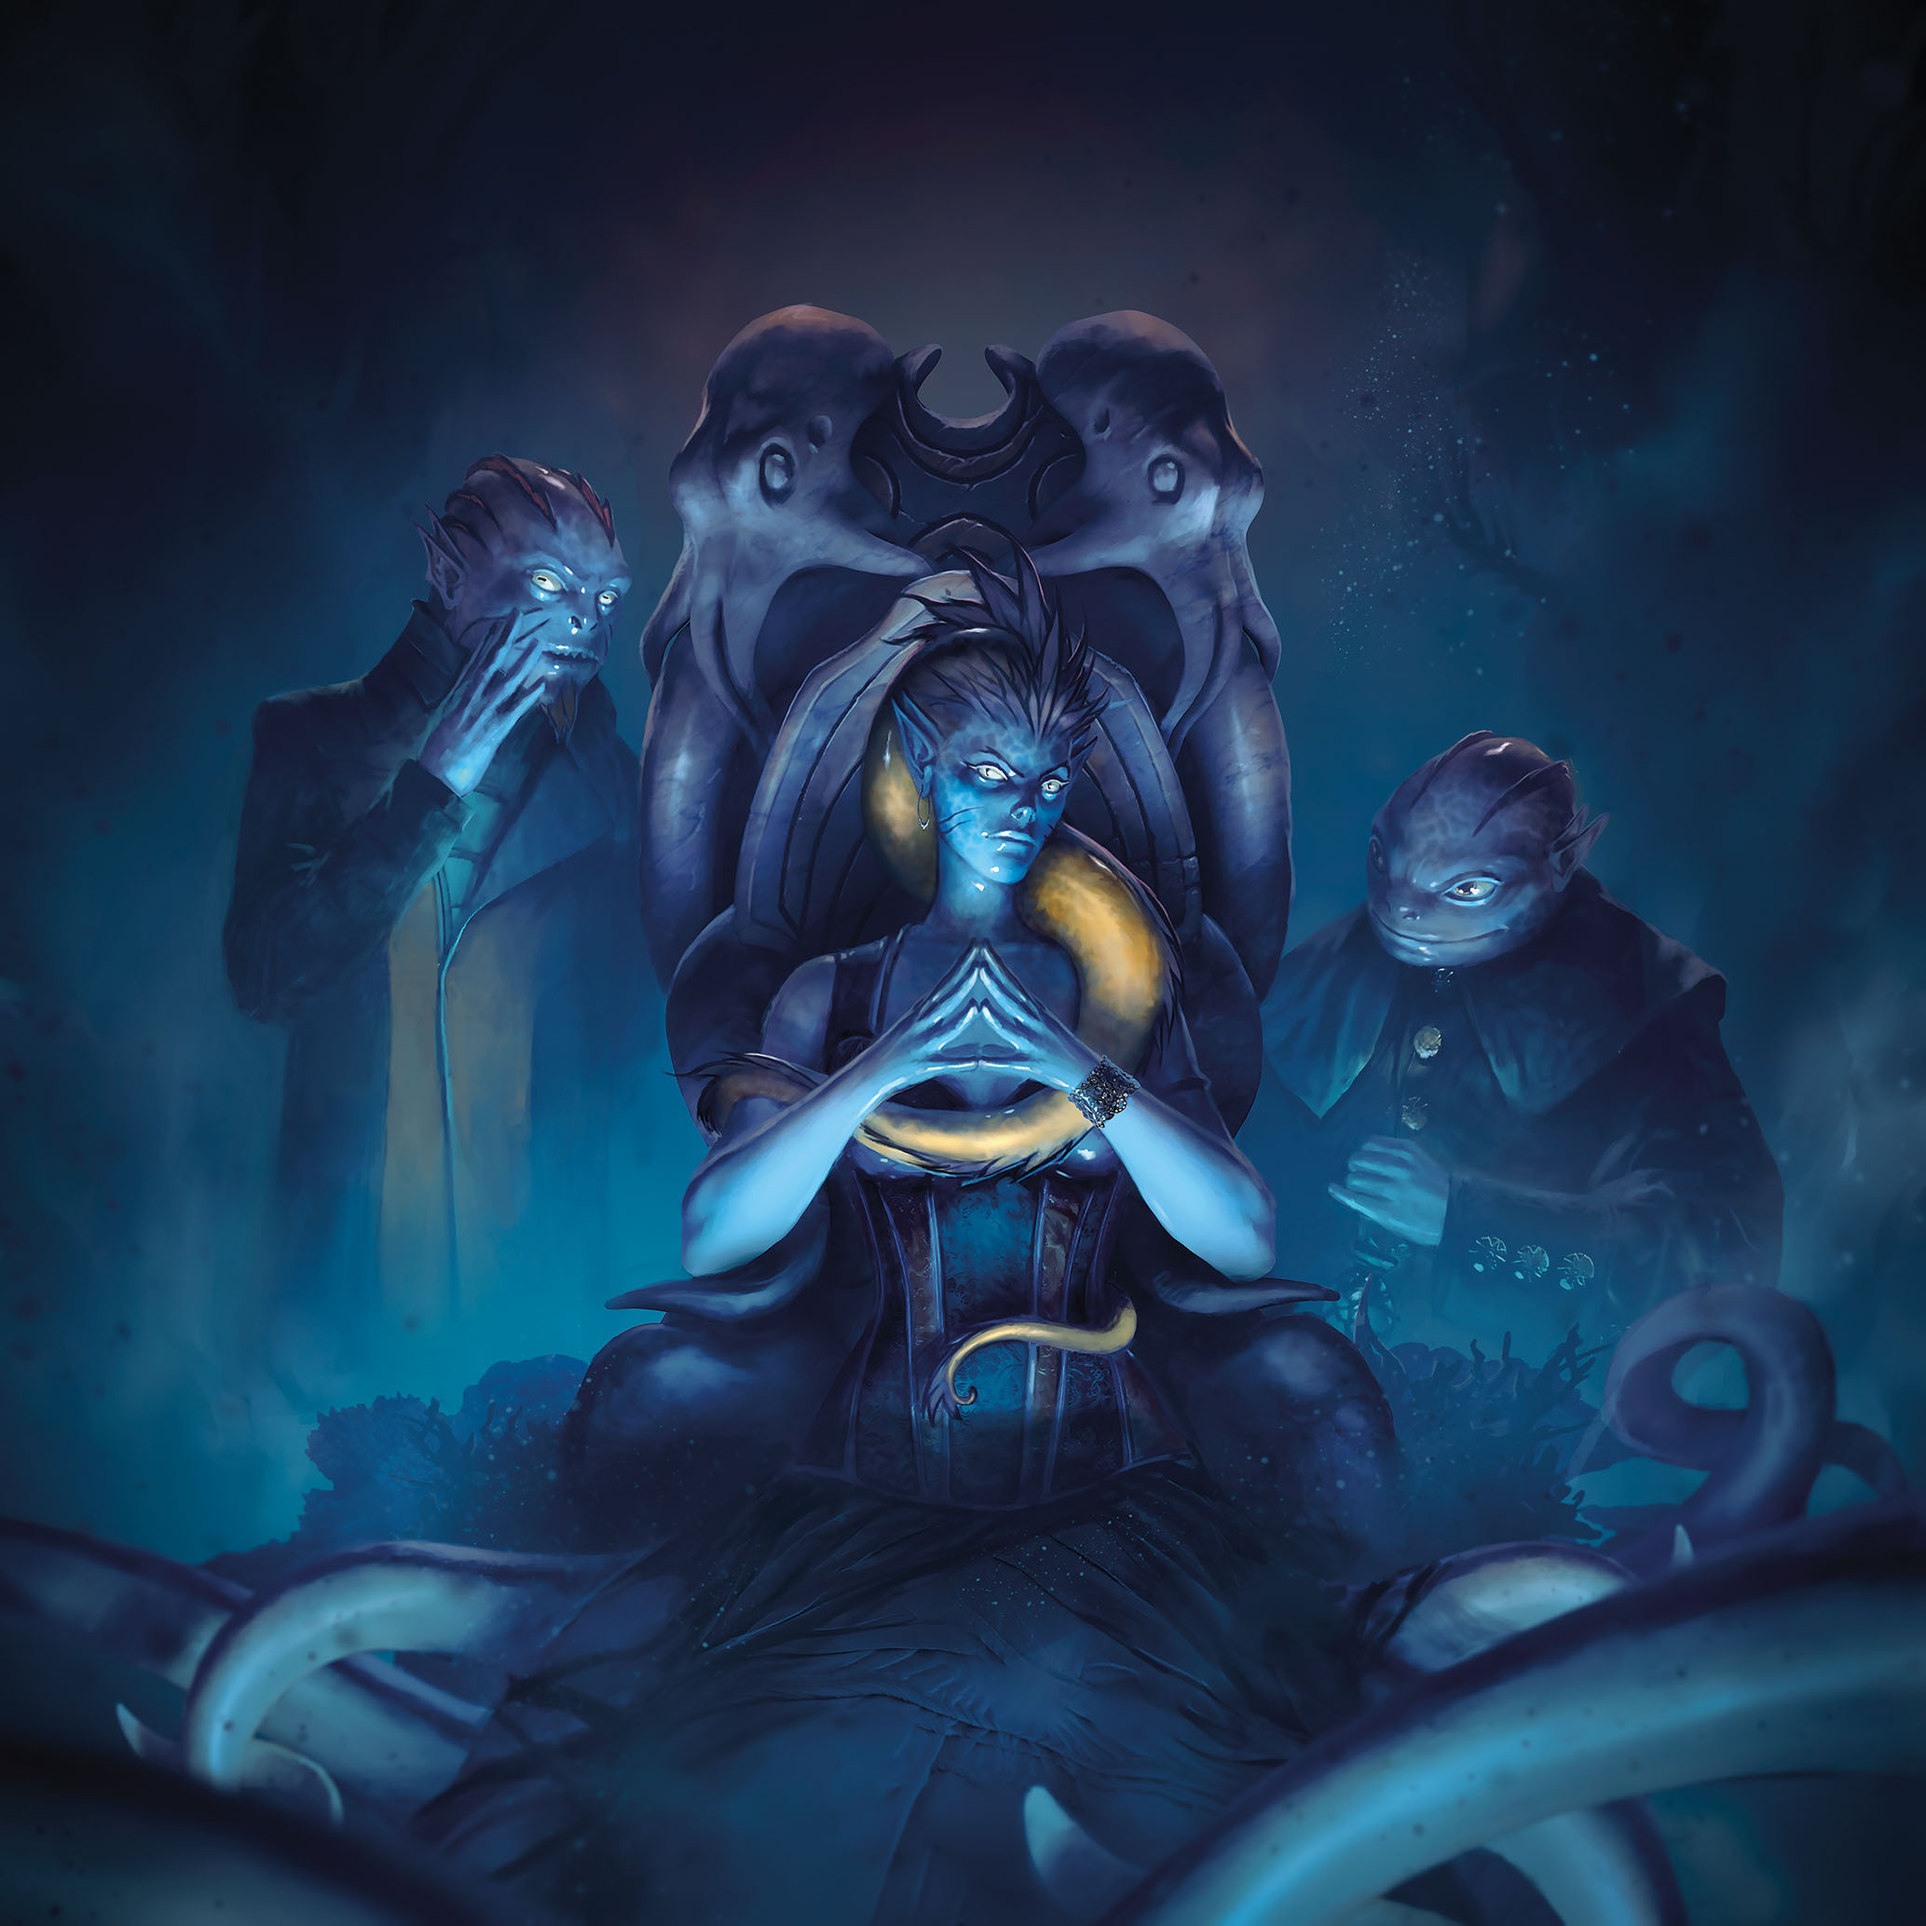
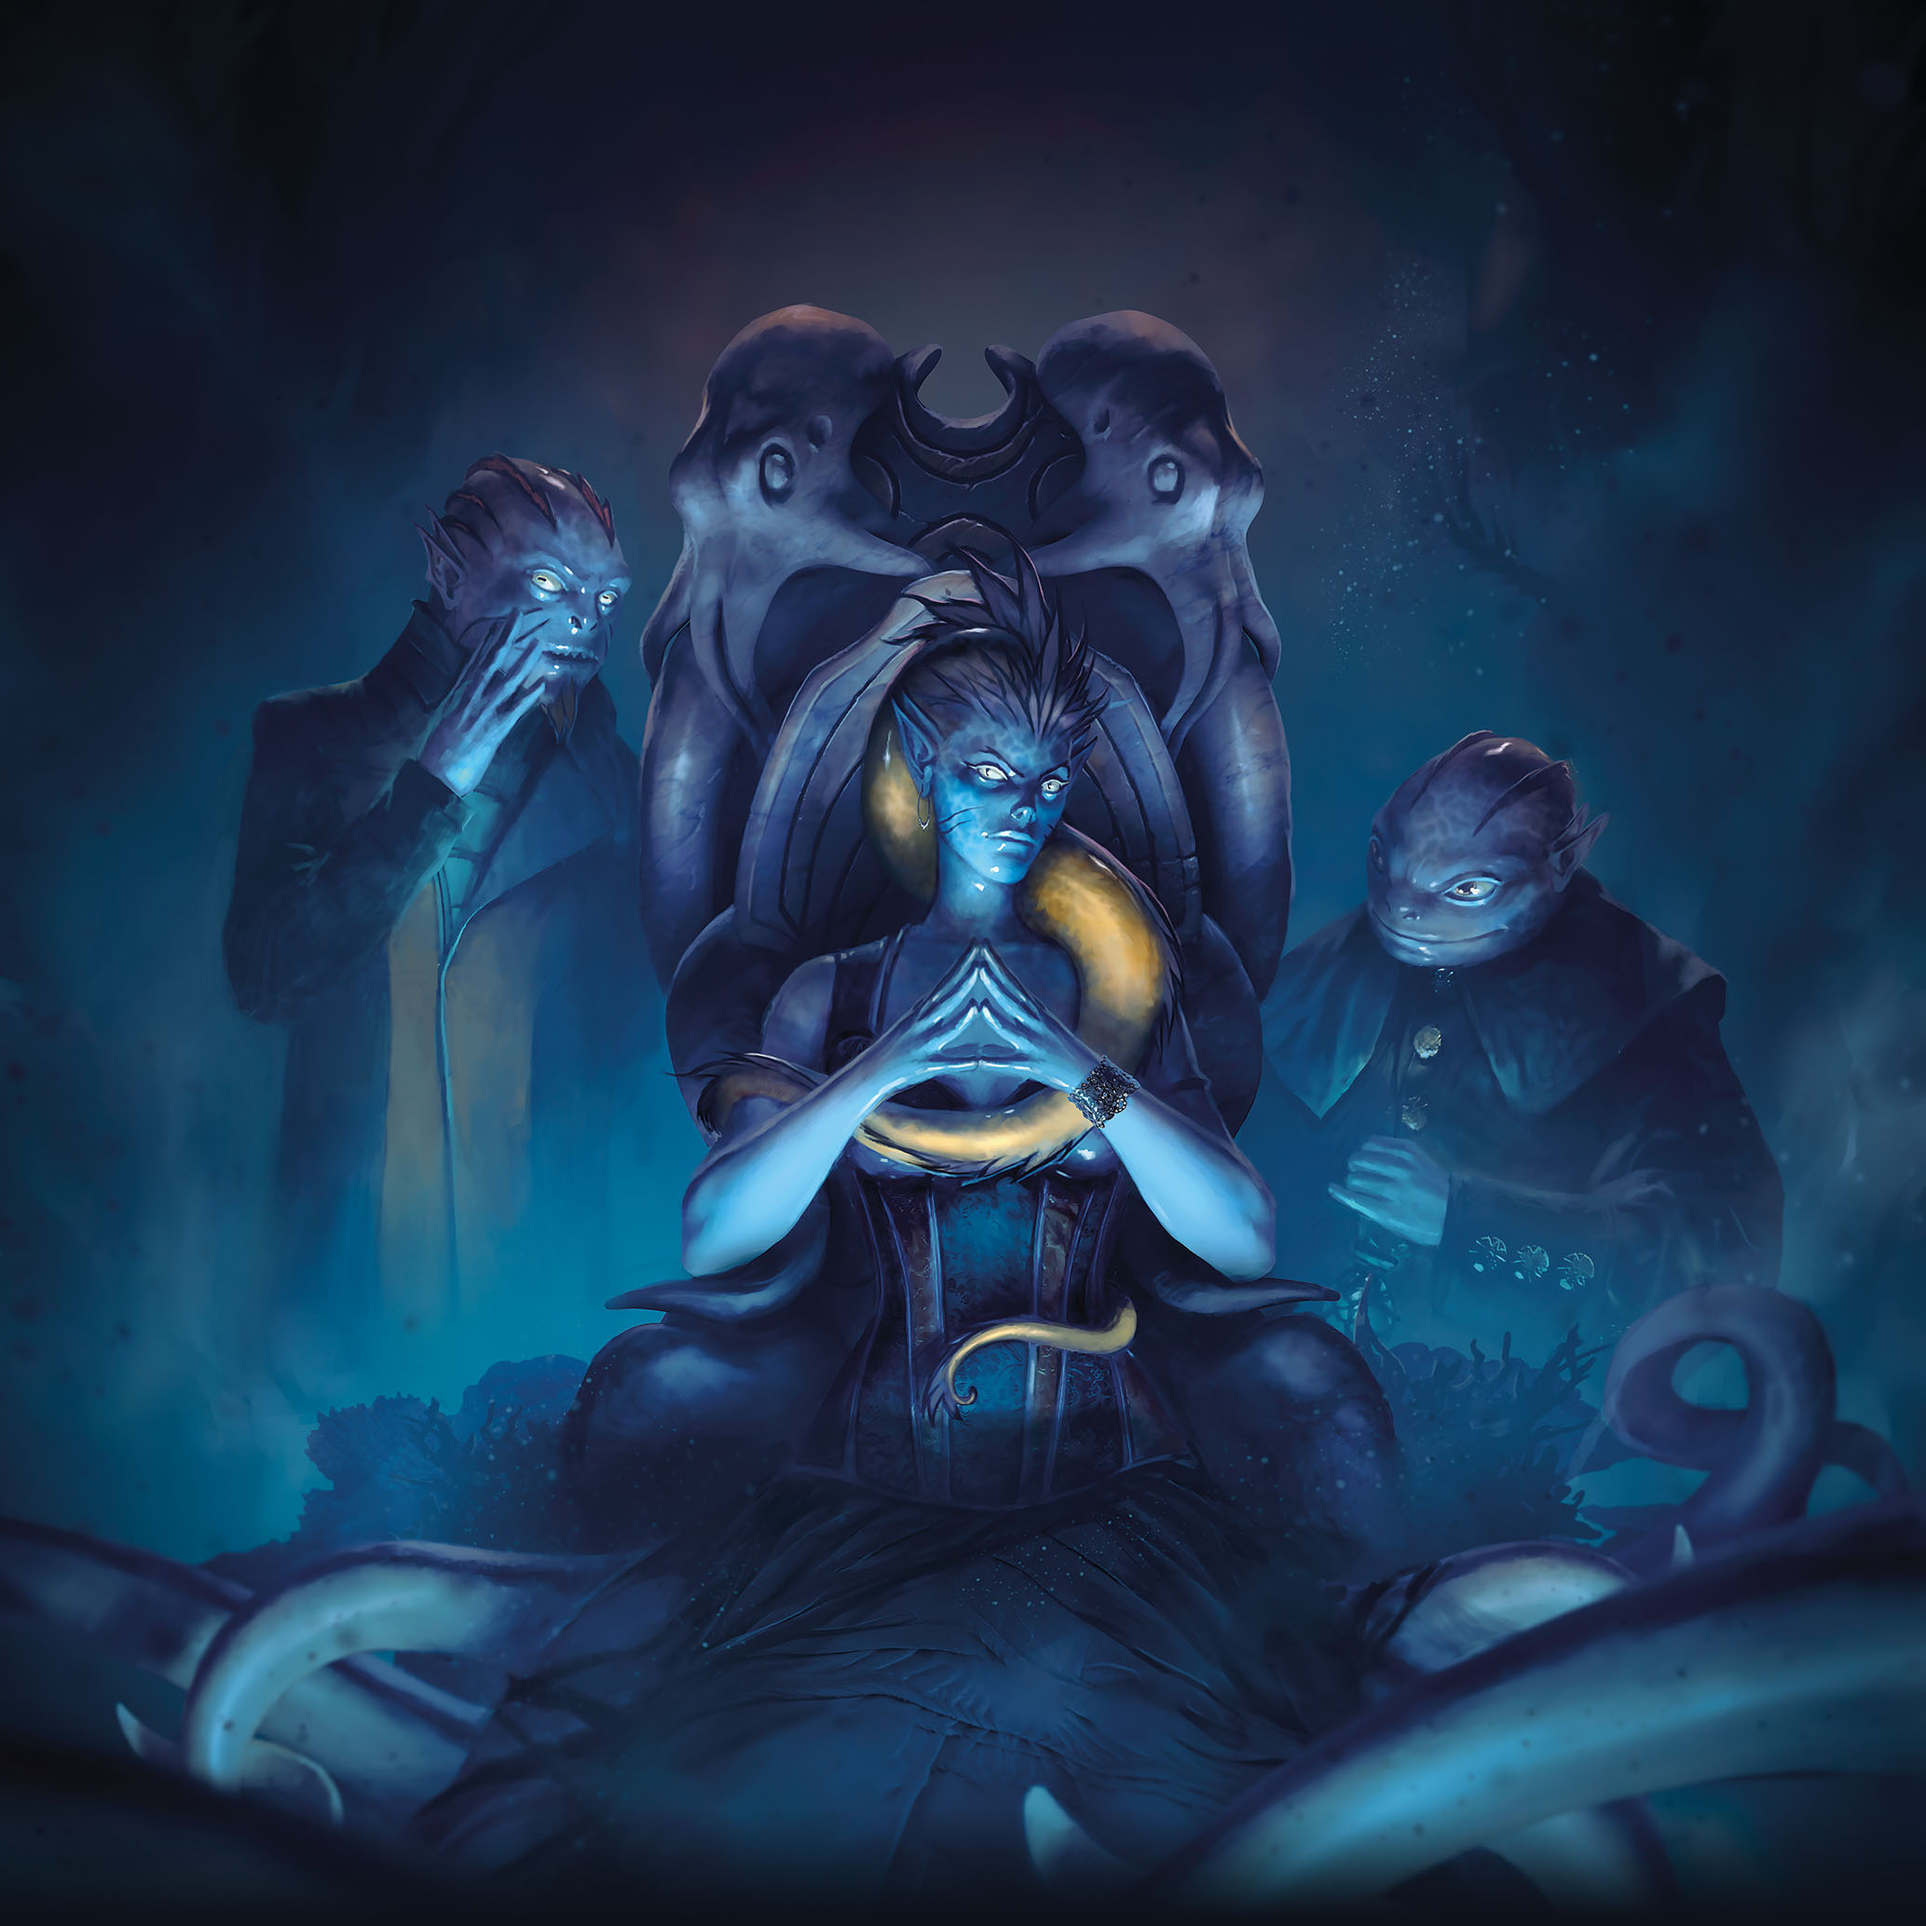
remove background repeat

Changed region(s): [[0.2167, 0.9289, 0.9598, 1.0], [0.0, 0.9598, 0.2167, 1.0]]

diff --git a/src/conspiracy.scss b/src/conspiracy.scss
@@ -7,8 +7,9 @@
 @import 'help';
 
 html {
-    background: url('img/background.jpg');
+    background: url('img/background.jpg') #0D111A;
     background-size: contain;
+    background-repeat: no-repeat;
 }
 
 .pearlMasterWrapper {

diff --git a/conspiracy.css b/conspiracy.css
@@ -442,8 +442,9 @@
 }
 
 html {
-  background: url("img/background.jpg");
+  background: url("img/background.jpg") #0D111A;
   background-size: contain;
+  background-repeat: no-repeat;
 }
 
 .pearlMasterWrapper {
